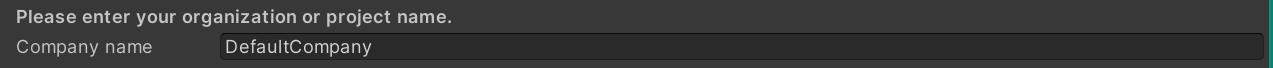
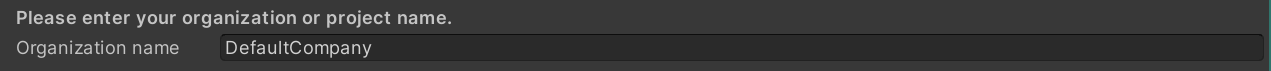
update images and content

diff --git a/mrtk-unity/mrtk3-tools/packages/tools/subsyswizard.md b/mrtk-unity/mrtk3-tools/packages/tools/subsyswizard.md
@@ -23,52 +23,54 @@ To get started creating a new subsystem, please select the `Subsystem Wizard` it
 
 ![Launching the Subsystem Wizard](images/menuItem.png)
 
-todo
+Once started, the Subsystem Wizard will ask you for some information; namely the name of your organization, the base name for the subsystem as well as if the subsystem requires configuration data.
 
 ![Specifiying Subsystem Names](images/subsysWizardStart.png)
 
-todo 
-
 ### Organization name
 
-todo
+By default, the Subsystem Wizard will read the Unity Player settings and ensure the organization name matches the project's company name. This value can be overwritten to be any valid C# identifier.
+
+![Organization name](images/organizationName.png)
 
 ### Base class name
 
-todo
+All subsystems will be generated with a base class. This is required by the current architecture and makes it easy to implement platform or provider specific versions of a subsystem. It is recommended that the base class name be the generic name of the subsystem (ex: "ScentSubsystem").
+
+![Organization name](images/baseClassName.png)
 
 ### Adding a subsystem configuration
 
-todo
+If your subsystem is to be configurable, select the `Add subsystem configuration` box.
+
+![Add configuration](images/addConfiguration.png)
+
+### Gebnerated names
+
+When generating the source code for your subsystem, the wizard automatically creates the names of specific elements. These can be overridden after the wizard completes, using your favorite text editor.
+
+![Generated names](images/generatedNames.png)
 
 ## Preparing to generate
 
 ![Specifiying Subsystem Names](images/subsysWizardPreGenerate.png)
 
+### Skipping file generation subsystem class
+
+While it is most often not recommended to skip the generation of one or more subsystem files, there are some scenarios where it may be useful (ex: you wish to regenerate a single file).
+
 > [!NOTE]
-> The Subststem Wizard will not overwrite existing files. If you have previously generated and need to add a file, you can selectively disable one or more files. This can also be used to regenerate a previously deleted file.
+> The Subsystem Wizard will not overwrite existing files. To regenerate a file, it must first be deleted.
 
-### Skip subsystem class
+Use the `Skip` option next to the desired file(s) to instruct the wizard to suppress generation.
 
-todo
-
-### Skip subsystem interface
-
-todo
-
-### Skip subsystem base class
-
-todo
-
-### Skip subsystem descriptor
-
-todo
-
-## Next steps
+## Finishing your subsystem
 
 ![Generation complete](images/subsysWizardComplete.png)
 
-todo
+Once complete, the Subsystem Wizard will list the set of steps required to complete your subsystem's implementation. The set of steps listed may vary based on the wizard settings.
+
+![Next steps list](images/nextSteps.png)
 
 ### Add your code
 
@@ -76,6 +78,6 @@ todo
 
 ### Enable the subsystem
 
-todo
+Once your subsystem is ready, you can enable it in the MRTK3 profile by visiting **Edit** > **Project Settings** > **MRTK3**.
 
 ![Enabling new subsystem](images/enableNewSubsystem.png)
